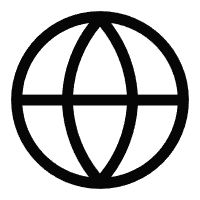
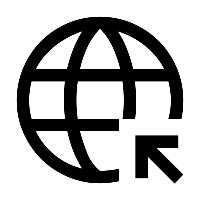
将图标风格替换为 material design 风格

diff --git a/subwindow/user_home_page.py b/subwindow/user_home_page.py
@@ -35,7 +35,7 @@ class UserHomeWindow(QWidget, user_home_page.Ui_Form):
         self.user_id_portrait = user_id_portrait
 
         self.setWindowIcon(QIcon('ui/tieba_logo_small.png'))
-        self.label_11.setPixmap(QPixmap('ui/user_ban.png').scaled(15, 15, transformMode=Qt.SmoothTransformation))
+        self.label_11.setPixmap(QPixmap('ui/user_ban_new.png').scaled(15, 15, transformMode=Qt.SmoothTransformation))
         self.label_7.setPixmap(QPixmap('ui/tb_dashen.png').scaled(15, 15, transformMode=Qt.SmoothTransformation))
         self.init_user_action_menu()
 
